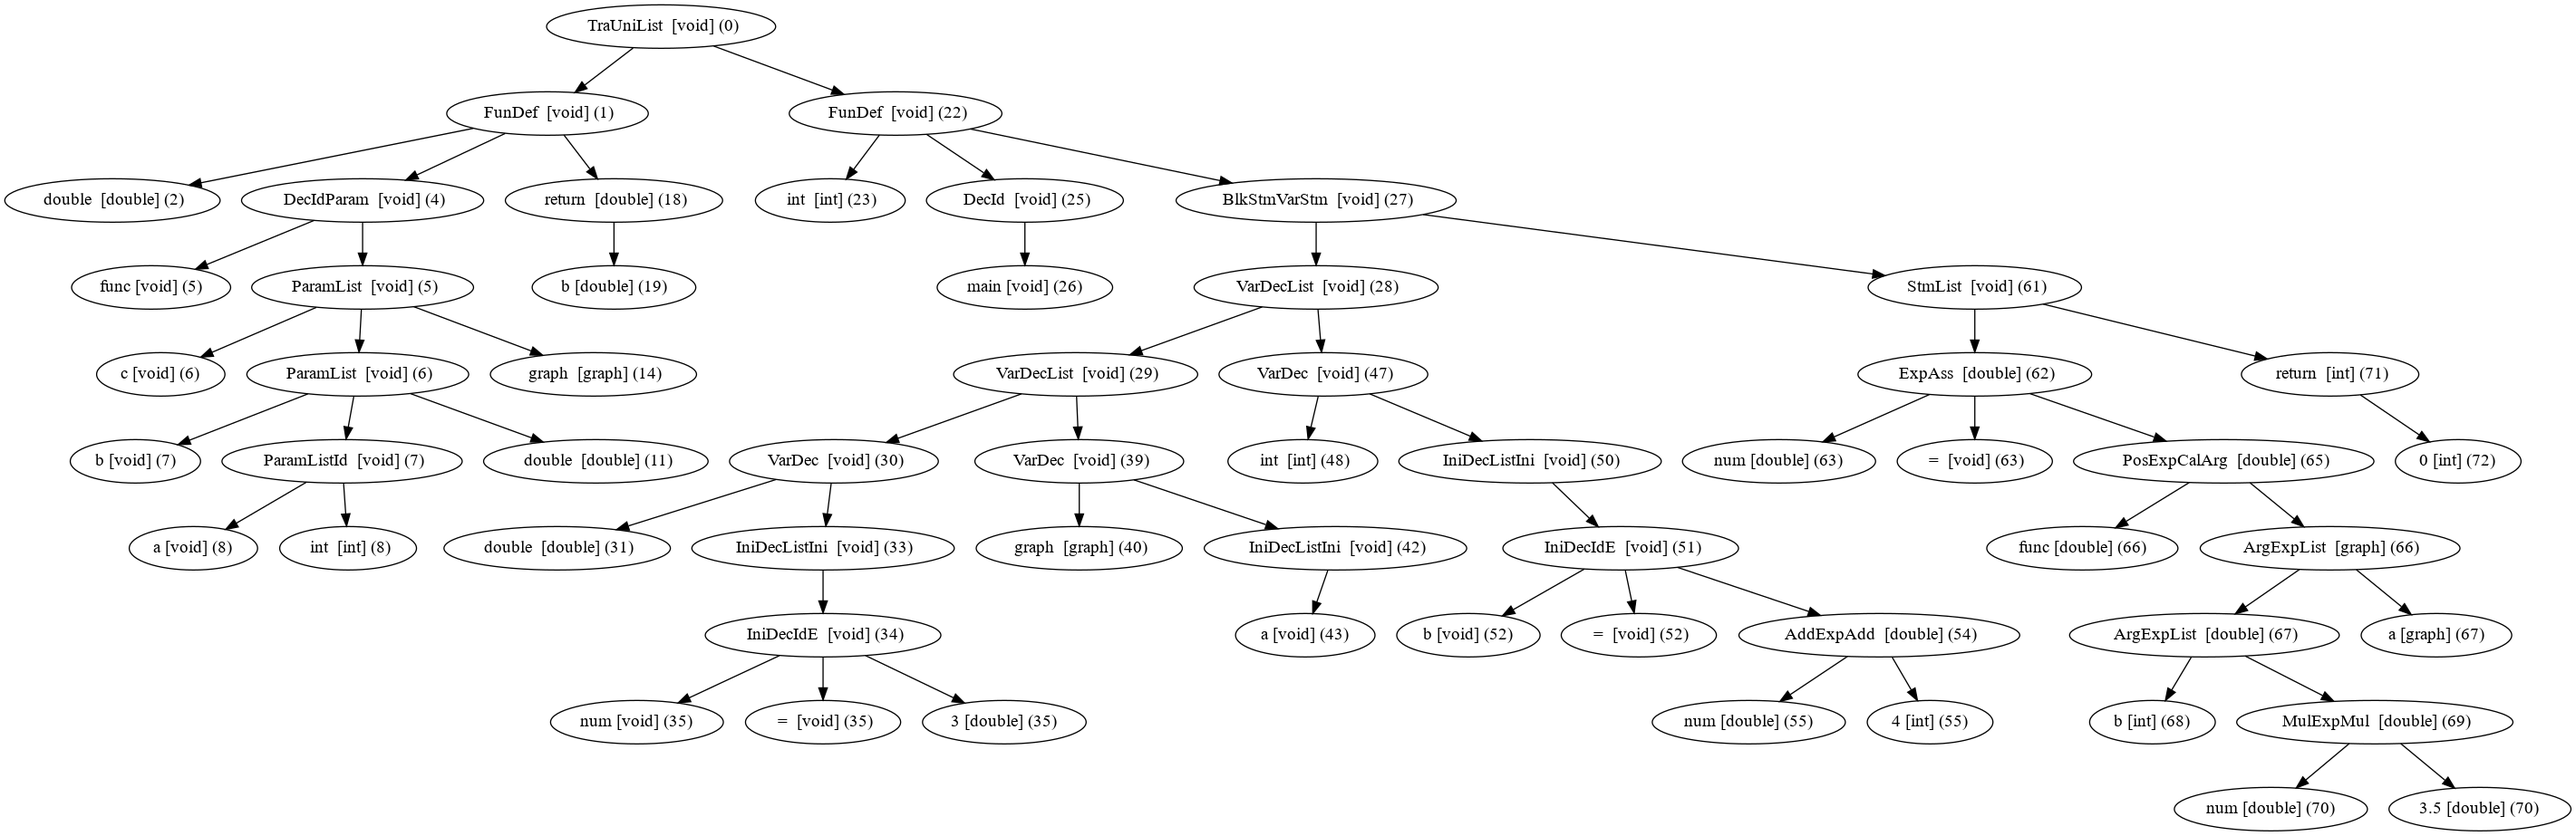
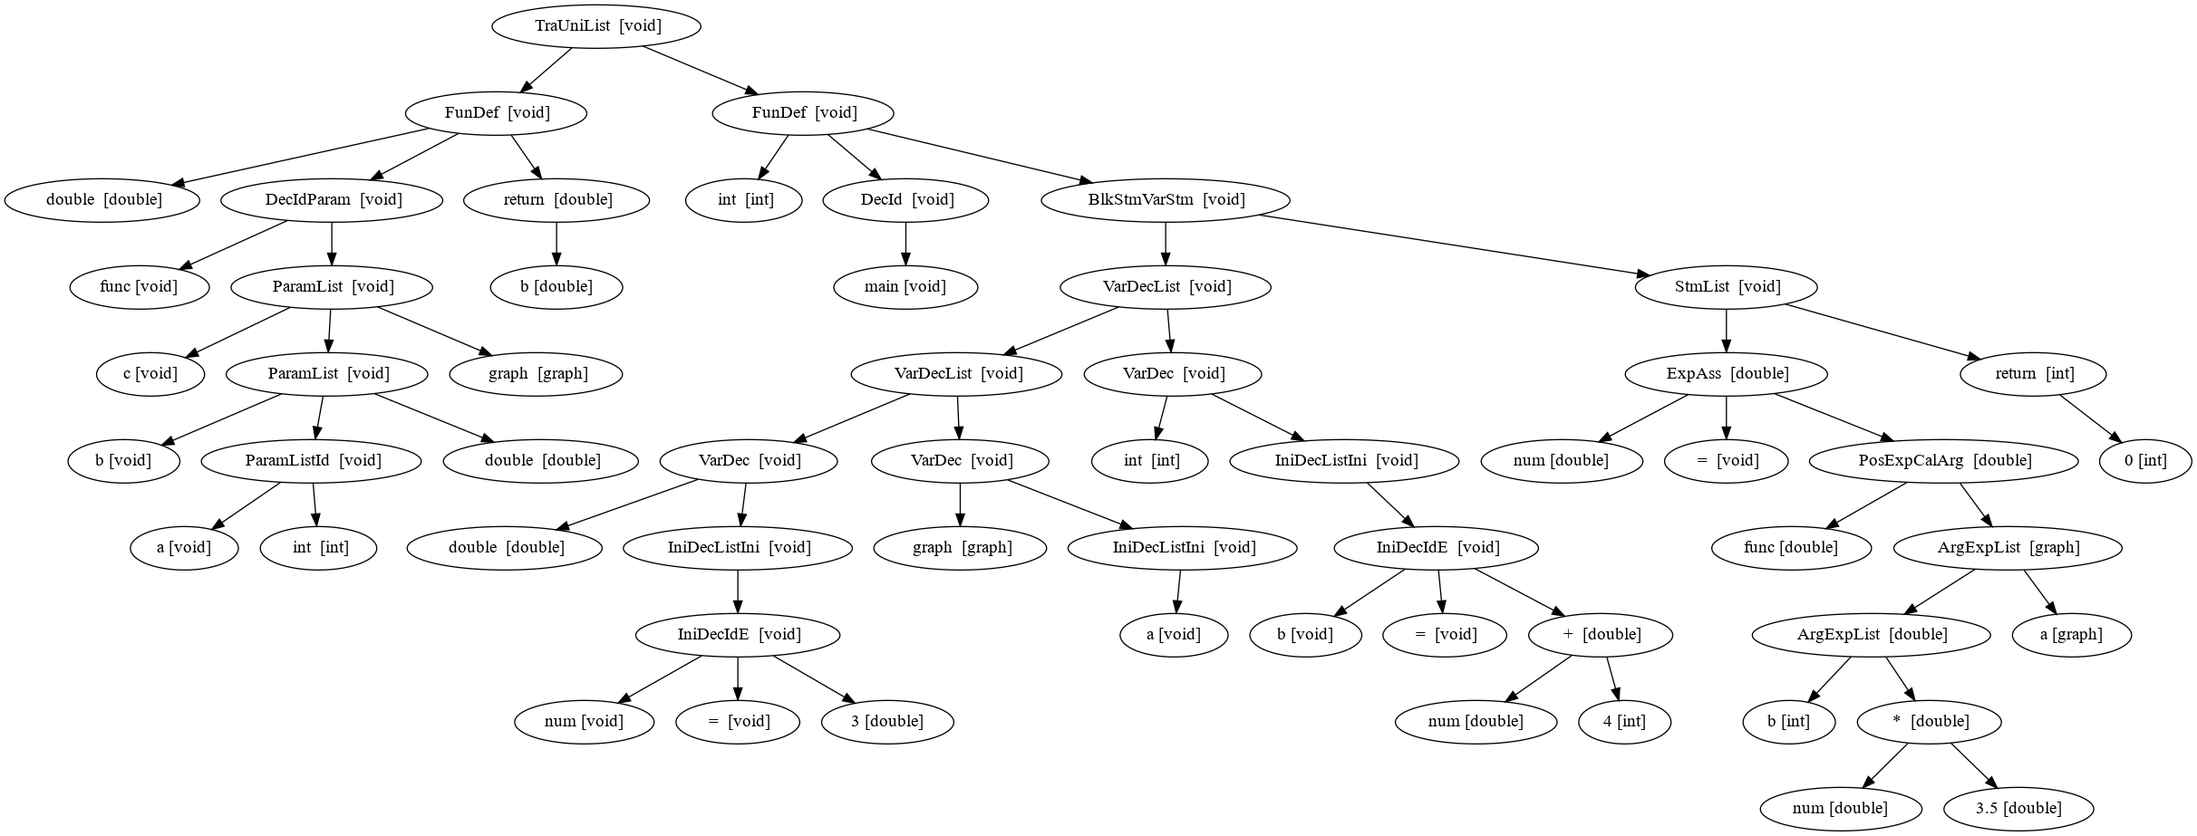
impressão da árvore sem número auxiliar

diff --git a/Printer.c b/Printer.c
@@ -59,6 +59,10 @@ void shTree(No p, int pos)
 		sprintf(buffer, "\"%s [%s] (%d)\"", p->u.ident_.ident_, printType(p->type), aux_pos);
 		bufAppendS(buffer);
 		bufAppendS("; ");
+		sprintf(buffer, "\"%s [%s] (%d)\" [label = \" %s [%s] \"];", printKind(p->kind,1), printType(p->type), pos, printKind(p->kind,1), printType(p->type));
+		bufAppendS(buffer);
+		sprintf(buffer, "\"%s [%s] (%d)\" [label = \" %s [%s] \"];", p->u.ident_.ident_, printType(p->type), aux_pos, p->u.ident_.ident_, printType(p->type));
+		bufAppendS(buffer);
 		aux_pos++;
 	}
 	
@@ -76,6 +80,10 @@ void shTree(No p, int pos)
 			sprintf(buffer, "\"%d [%s] (%d)\"", aux->no->u.constint_.integer_, printType(aux->no->type), aux_pos);
 			bufAppendS(buffer);
 			bufAppendS("; ");
+			sprintf(buffer, "\"%s [%s] (%d)\" [label = \" %s [%s] \"];", printKind(p->kind,1), printType(p->type), pos, printKind(p->kind,1), printType(p->type));
+			bufAppendS(buffer);
+			sprintf(buffer, "\"%d [%s] (%d)\" [label = \" %d [%s] \"];", aux->no->u.constint_.integer_, printType(aux->no->type), aux_pos, aux->no->u.constint_.integer_, printType(aux->no->type));
+			bufAppendS(buffer);
 			aux_pos++;
 			break;
 		case is_ConstDouble:
@@ -86,6 +94,10 @@ void shTree(No p, int pos)
 			sprintf(buffer, "\"%g [%s] (%d)\"", aux->no->u.constdouble_.double_, printType(aux->no->type), aux_pos);
 			bufAppendS(buffer);
 			bufAppendS("; ");
+			sprintf(buffer, "\"%s [%s] (%d)\" [label = \" %s [%s] \"];", printKind(p->kind,1), printType(p->type), pos, printKind(p->kind,1), printType(p->type));
+			bufAppendS(buffer);
+			sprintf(buffer, "\"%g [%s] (%d)\" [label = \" %g [%s] \"];", aux->no->u.constdouble_.double_, printType(aux->no->type), aux_pos, aux->no->u.constdouble_.double_, printType(aux->no->type));
+			bufAppendS(buffer);
 			aux_pos++;
 			break;
 		case is_ConstStr:
@@ -96,6 +108,10 @@ void shTree(No p, int pos)
 			sprintf(buffer, "\"%s [%s] (%d)\"", aux->no->u.conststr_.string_, printType(aux->no->type), aux_pos);
 			bufAppendS(buffer);
 			bufAppendS("; ");
+			sprintf(buffer, "\"%s [%s] (%d)\" [label = \" %s [%s] \"];", printKind(p->kind,1), printType(p->type), pos, printKind(p->kind,1), printType(p->type));
+			bufAppendS(buffer);
+			sprintf(buffer, "\"%s [%s] (%d)\" [label = \" %s [%s] \"];", aux->no->u.conststr_.string_, printType(aux->no->type), aux_pos, aux->no->u.conststr_.string_, printType(aux->no->type));
+			bufAppendS(buffer);
 			aux_pos++;
 			break;
 		case is_IniDecId:
@@ -106,6 +122,10 @@ void shTree(No p, int pos)
 			sprintf(buffer, "\"%s [%s] (%d)\"", aux->no->u.ident_.ident_, printType(aux->no->type), aux_pos);
 			bufAppendS(buffer);
 			bufAppendS("; ");
+			sprintf(buffer, "\"%s [%s] (%d)\" [label = \" %s [%s] \"];", printKind(p->kind,1), printType(p->type), pos, printKind(p->kind,1), printType(p->type));
+			bufAppendS(buffer);
+			sprintf(buffer, "\"%s [%s] (%d)\" [label = \" %s [%s] \"];", aux->no->u.ident_.ident_, printType(aux->no->type), aux_pos, aux->no->u.ident_.ident_, printType(aux->no->type));
+			bufAppendS(buffer);
 			aux_pos++;
 			break;
 		case is_PriExpId:
@@ -116,6 +136,10 @@ void shTree(No p, int pos)
 			sprintf(buffer, "\"%s [%s] (%d)\"", aux->no->u.ident_.ident_, printType(aux->no->type), aux_pos);
 			bufAppendS(buffer);
 			bufAppendS("; ");
+			sprintf(buffer, "\"%s [%s] (%d)\" [label = \" %s [%s] \"];", printKind(p->kind,1), printType(p->type), pos, printKind(p->kind,1), printType(p->type));
+			bufAppendS(buffer);
+			sprintf(buffer, "\"%s [%s] (%d)\" [label = \" %s [%s] \"];", aux->no->u.ident_.ident_, printType(aux->no->type), aux_pos, aux->no->u.ident_.ident_, printType(aux->no->type));
+			bufAppendS(buffer);
 			aux_pos++;
 			break;
 		default:
@@ -125,6 +149,10 @@ void shTree(No p, int pos)
 			sprintf(buffer, "\"%s [%s] (%d)\"", printKind(aux->no->kind,1), printType(aux->no->type), aux_pos);
 			bufAppendS(buffer);
 			bufAppendS("; ");
+			sprintf(buffer, "\"%s [%s] (%d)\" [label = \" %s [%s] \"];", printKind(p->kind,1), printType(p->type), pos, printKind(p->kind,1), printType(p->type));
+			bufAppendS(buffer);
+			sprintf(buffer, "\"%s [%s] (%d)\" [label = \" %s [%s] \"];", printKind(aux->no->kind,1), printType(aux->no->type), aux_pos, printKind(aux->no->kind,1), printType(aux->no->type));
+			bufAppendS(buffer);
 			
 			shTree(aux->no,aux_pos);
 			aux_pos++;
@@ -223,11 +251,11 @@ char* printKind(int kind, int modo)
 	case is_UnaExpPos: if(modo==0)printf(" UnaExpPos ");else return " UnaExpPos "; break; 
 	case is_UnaExpOp: if(modo==0)printf(" UnaExpOp ");else return " UnaExpOp "; break; 
 	case is_MulExpUna: if(modo==0)printf(" MulExpUna ");else return " MulExpUna "; break; 
-	case is_MulExpMul: if(modo==0)printf(" MulExpMul ");else return " MulExpMul "; break; 
-	case is_MulExpDiv: if(modo==0)printf(" MulExpDiv ");else return " MulExpDiv "; break; 
+	case is_MulExpMul: if(modo==0)printf(" MulExpMul ");else return " * "; break; 
+	case is_MulExpDiv: if(modo==0)printf(" MulExpDiv ");else return " / "; break; 
 	case is_AddExpMul: if(modo==0)printf(" AddExpMul ");else return " AddExpMul "; break; 
-	case is_AddExpAdd: if(modo==0)printf(" AddExpAdd ");else return " AddExpAdd "; break; 
-	case is_AddExpSub: if(modo==0)printf(" AddExpSub ");else return " AddExpSub "; break; 
+	case is_AddExpAdd: if(modo==0)printf(" AddExpAdd ");else return " + "; break; 
+	case is_AddExpSub: if(modo==0)printf(" AddExpSub ");else return " - "; break; 
 	case is_RelExpAdd: if(modo==0)printf(" RelExpAdd ");else return " RelExpAdd "; break; 
 	case is_RelExpLT: if(modo==0)printf(" RelExpLT ");else return " RelExpLT "; break; 
 	case is_RelExpGT: if(modo==0)printf(" RelExpGT ");else return " RelExpGT "; break; 
